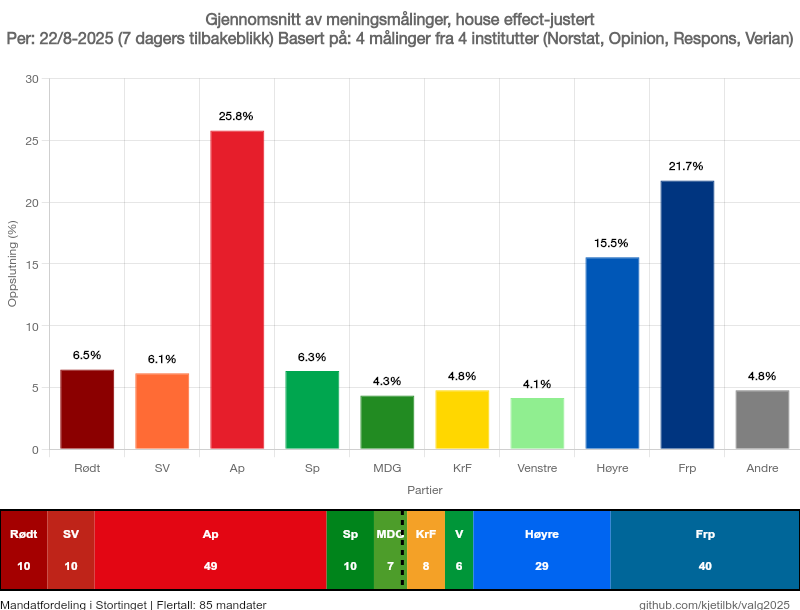
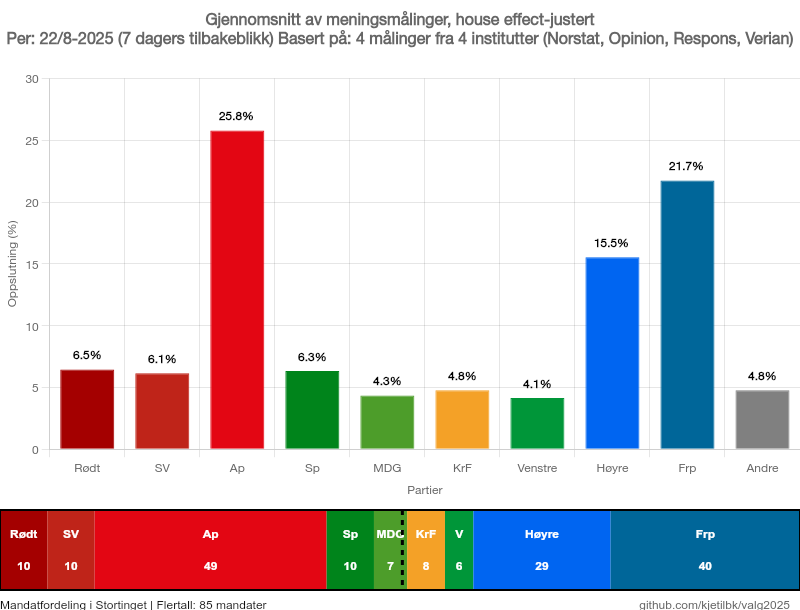
samme farger for partiene da

Changed region(s): [[0.3438, 0.2803, 0.9062, 0.7475], [0.0625, 0.5918, 0.25, 0.7475]]

diff --git a/src/visualization.ts b/src/visualization.ts
@@ -152,16 +152,16 @@ export function getAdjustmentComparison(
  * Norwegian party colors for consistent visualization
  */
 const PARTY_COLORS: Record<string, string> = {
-    Ap: '#E61E2B', // Red - Arbeiderpartiet
-    Høyre: '#0057B7', // Blue - Conservative
-    Frp: '#003580', // Dark Blue - Progress Party
-    SV: '#FF6B35', // Orange - Socialist Left
-    Sp: '#00A64F', // Green - Centre Party
-    KrF: '#FFD700', // Yellow - Christian Democrats
-    Venstre: '#90EE90', // Light Green - Liberal Party
-    MDG: '#228B22', // Forest Green - Green Party
-    Rødt: '#8B0000', // Dark Red - Red Party
-    Andre: '#808080', // Gray - Others
+    Ap: '#e30613', // Red
+    Høyre: '#0065f1', // Blue
+    Frp: '#006699', // Dark blue
+    SV: '#bf2419', // Dark red
+    Sp: '#00841b', // Green
+    KrF: '#f4a127', // Orange/Yellow
+    Venstre: '#009639', // Green
+    MDG: '#4d9d2a', // Green
+    Rødt: '#a40000', // Dark red
+    Andre: '#808080', // Gray
 };
 
 /**
